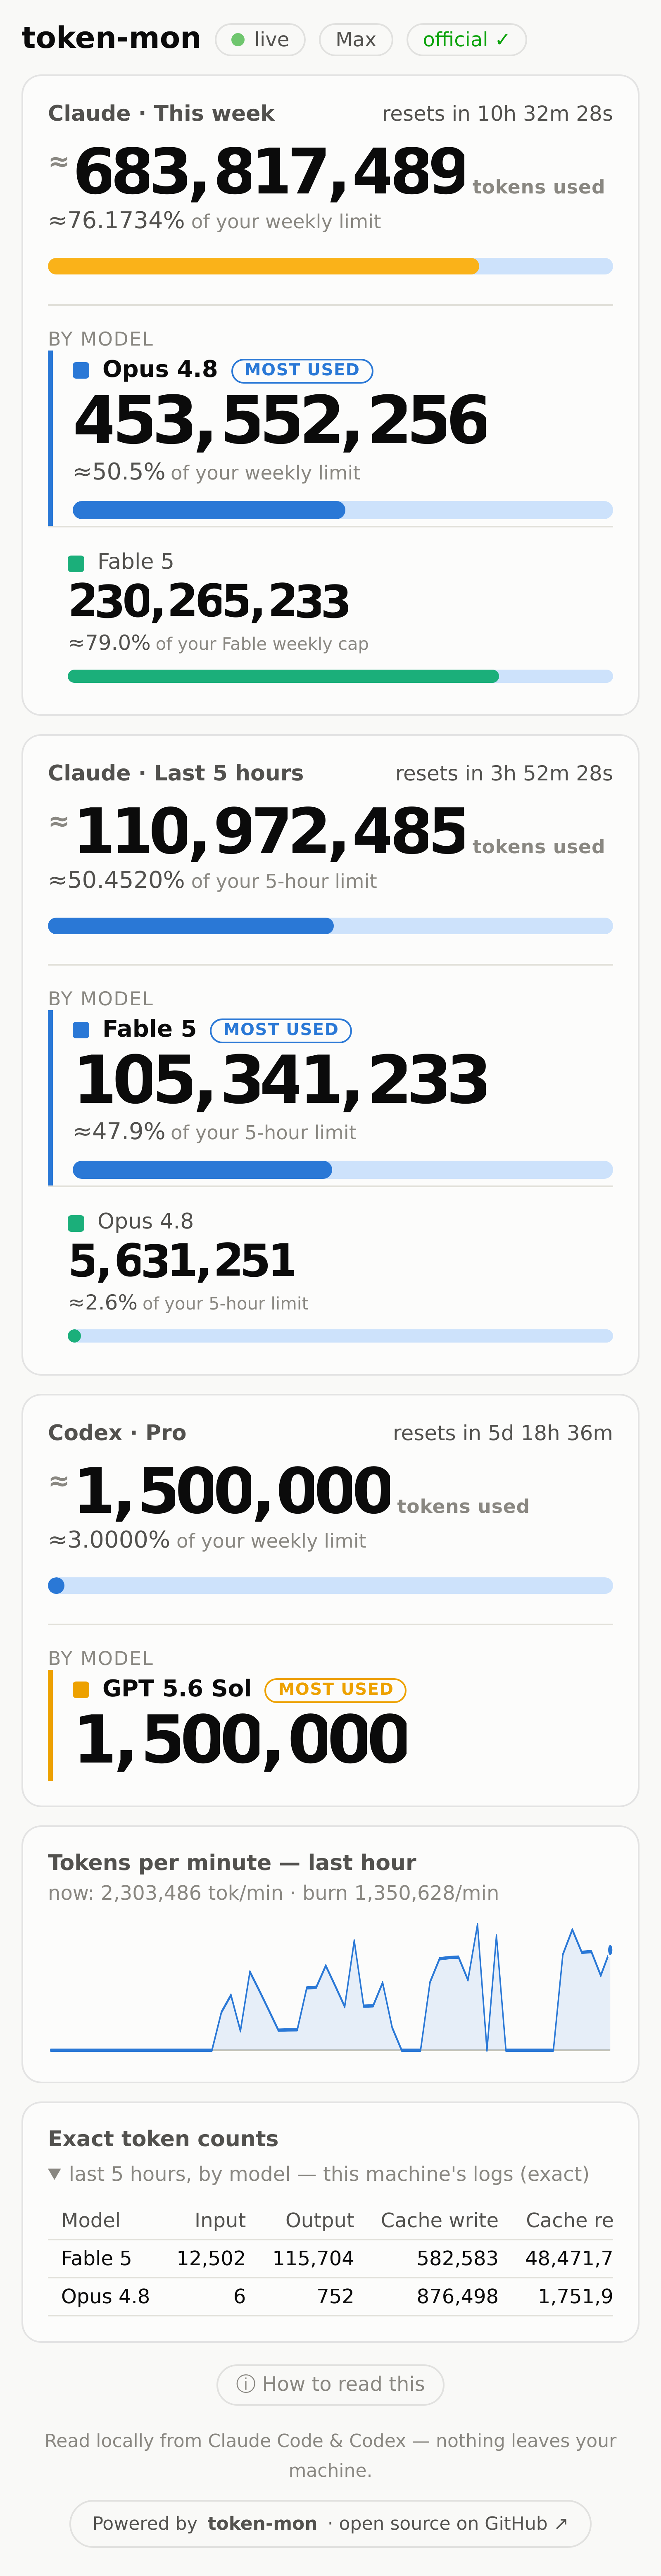
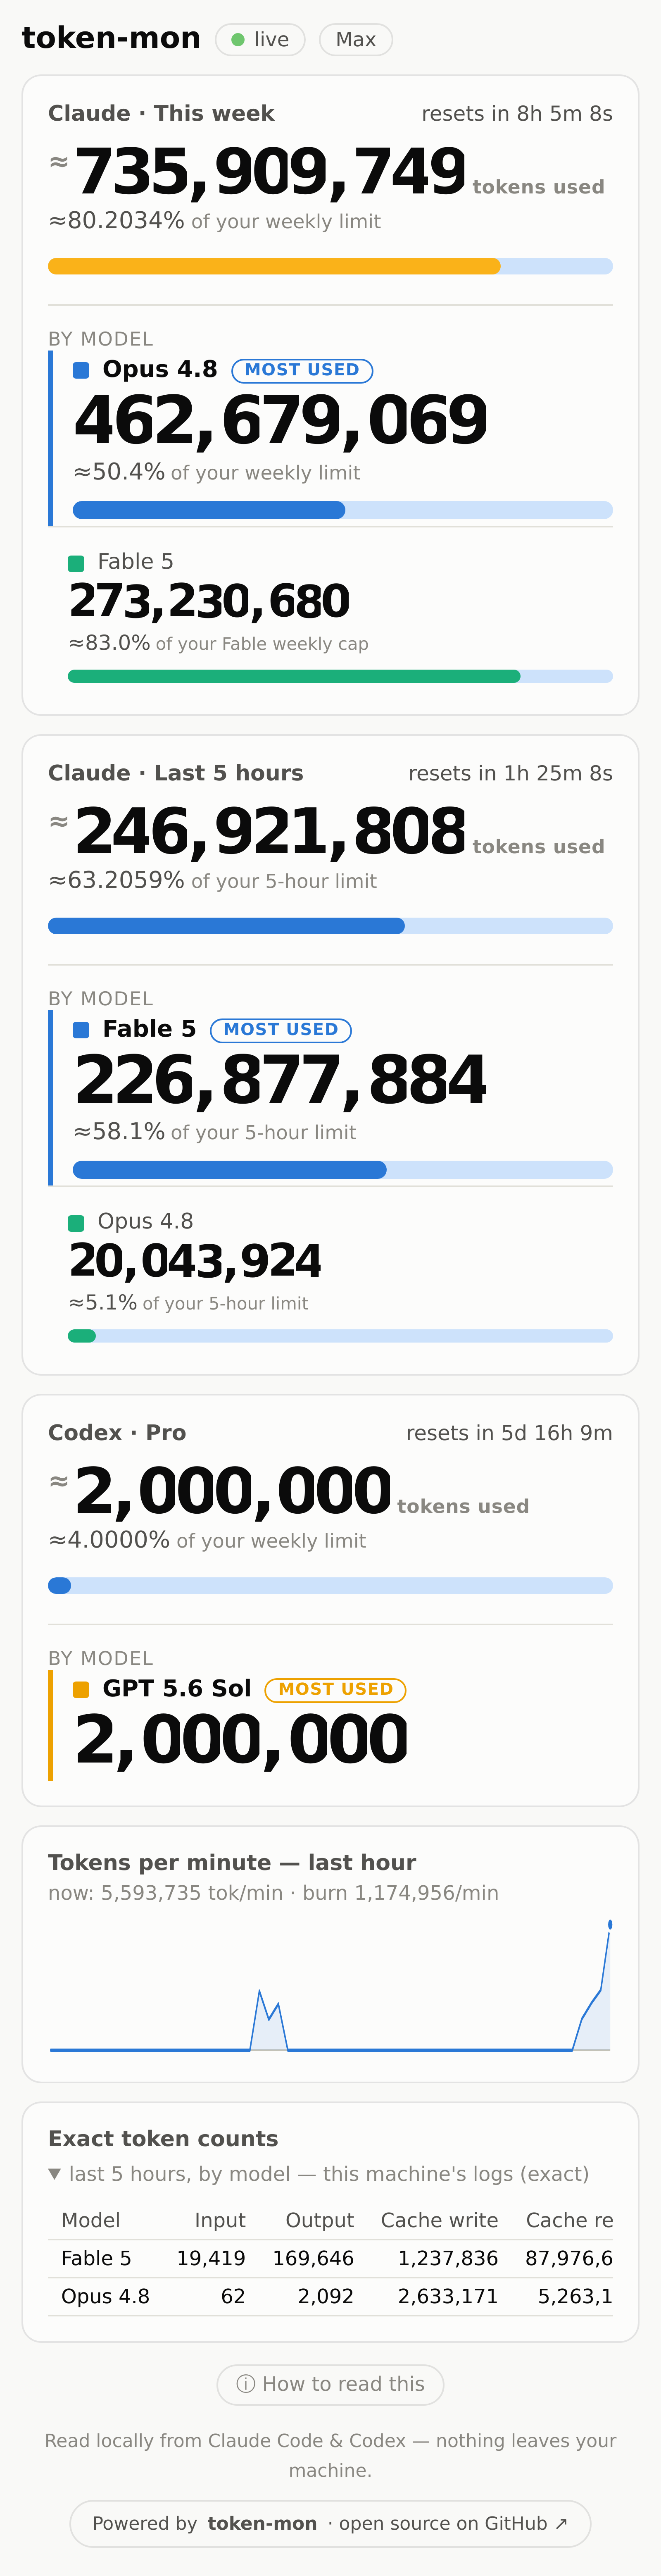
Remove the "official" source chip from the header
It described the data source, not anything a user acts on — and with every
number now account-wide and estimate-labeled, it no longer made sense.

Claude-Session: https://claude.ai/code/session_01XbNfyBsCw2YkS5ZYWFRxGC

diff --git a/index.html b/index.html
@@ -135,7 +135,6 @@
     <h1>token-mon</h1>
     <span class="chip"><span class="dot" id="livedot"></span><span id="livetext">connecting…</span></span>
     <span class="chip" id="planchip">—</span>
-    <span class="chip" id="srcchip">—</span>
     <span class="meta" id="meta"></span>
   </header>
 
@@ -299,9 +298,6 @@ function onSnapshot(s){
   el("livedot").className="dot"+(s.burn.perMin>0?" live":"");
   el("livetext").textContent = sess.tokens.total>0 ? "live" : "idle";
   el("planchip").textContent = s.plan.label;
-  const src=el("srcchip");
-  if(off.ok){ src.className="chip ok"; src.textContent="official ✓"; }
-  else { src.className="chip est"; src.textContent="estimate"; }
   el("meta").textContent=`${s.meta.files} transcripts · ${fmt(s.meta.events)} msgs`;
 
   if(week.start!==lastWeekStart){